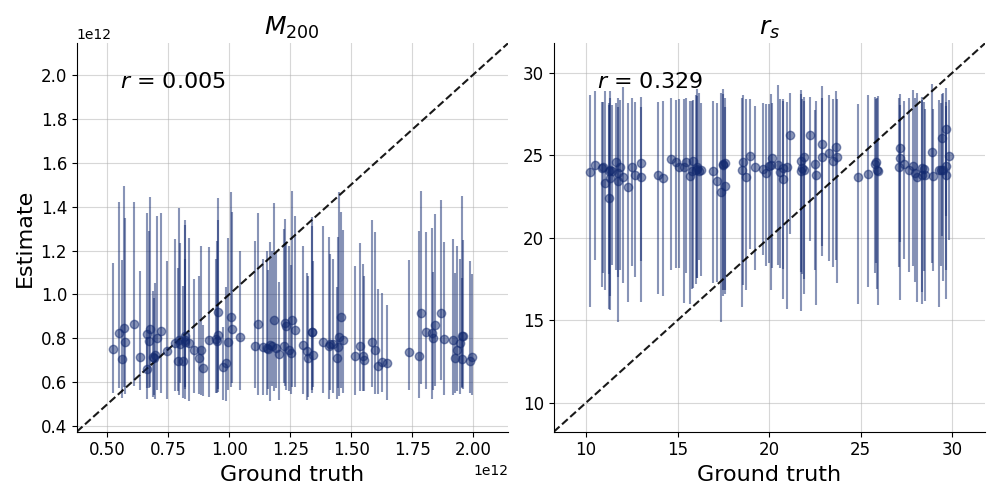
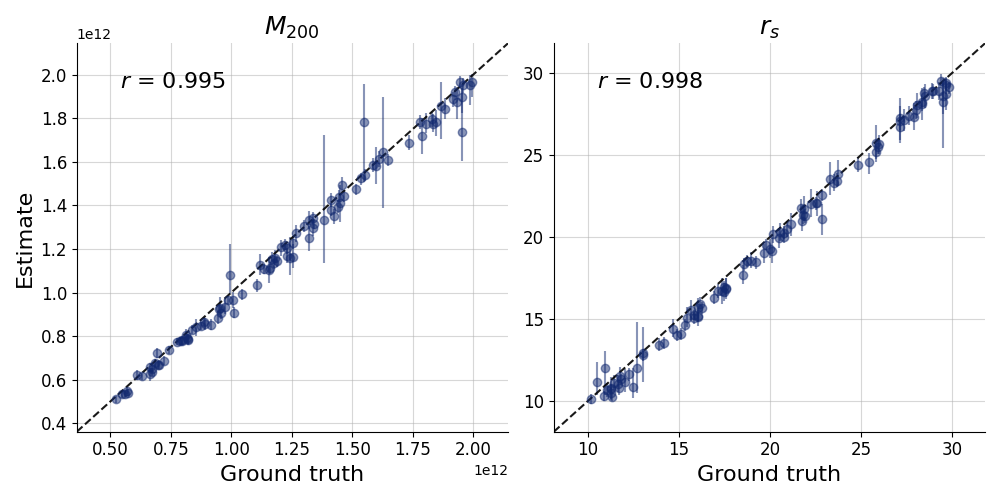
plotting calibration works, refactoring the standardization is now explicit

diff --git a/case_study5/partial_pooling.py b/case_study5/partial_pooling.py
@@ -54,20 +54,17 @@ adapter = (
     bf.adapters.Adapter()
     .to_array()
     .convert_dtype("float64", "float32")
-    # .standardize("sim_data",
-    #              mean=training_data['mean_sim_data'],
-    #              std=training_data['std_sim_data'])
+    .standardize("sim_data",
+                 mean=training_data['mean_sim_data'],
+                 std=training_data['std_sim_data']) #this is not a problem
     # .standardize("m_nfw",
     #              mean=training_data['mean_m_nfw'],
     #              std=training_data['std_m_nfw'])
     # .standardize("r_s",
     #              mean=training_data['mean_r_s'],
     #              std=training_data['std_r_s'])
-    .log("m_nfw")
-    .log("r_s")
     .concatenate(param_names_global, into="inference_variables")
     .rename("j", "inference_conditions")
-    # .as_set("sim_data")
     .rename("sim_data", "summary_variables")
 )
 
@@ -84,6 +81,8 @@ model_path = BASE / 'models' / 'partial_pooling_global.keras'
 if not os.path.exists(model_path):
     os.makedirs(name= BASE / 'models', exist_ok=True)
     training_data_raw = dict(np.load('./case_study5/training_set_odisseo.npz', allow_pickle=True))
+    training_data_raw['m_nfw'] = (training_data_raw['m_nfw']  - training_data_raw['mean_m_nfw'])/ training_data_raw['std_m_nfw']
+    training_data_raw['r_s'] = (training_data_raw['r_s']  - training_data_raw['mean_r_s'])/ training_data_raw['std_r_s']
     # Filter out mean/std arrays from training data
     training_data = {k: v for k, v in training_data_raw.items() if not k.startswith('mean_') and not k.startswith('std_')}  
     # Debug: print shapes of training data
@@ -102,29 +101,23 @@ if not os.path.exists(model_path):
     )
     workflow_global.approximator.save(model_path)
 else:
-    # Also print shapes when loading existing model
-    training_data = dict(np.load('./case_study5/training_set_odisseo.npz', allow_pickle=True))
-    print("Training data shapes:")
-    for k, v in training_data.items():
-        if hasattr(v, 'shape'):
-            print(f"  {k}: {v.shape}")
-        else:
-            print(f"  {k}: type = {type(v)}")
-    
     workflow_global.approximator = keras.models.load_model(model_path)
 
+training_data_raw = dict(np.load('./case_study5/training_set_odisseo.npz', allow_pickle=True))
 test_data_npz = dict(np.load('./case_study5/test_set_multistream_odisseo.npz', allow_pickle=True))
-print('Shape as loaded')
-print({k: test_data_npz[k].shape for k in test_data_npz.keys()})
+test_data_npz['m_nfw'] = (test_data_npz['m_nfw']  - training_data_raw['mean_m_nfw'])/ training_data_raw['std_m_nfw']
+test_data_npz['r_s'] = (test_data_npz['r_s']  - training_data_raw['mean_r_s'])/ training_data_raw['std_r_s']
+
 test_data = {k: np.expand_dims(np.array(test_data_npz[k]), axis=-1) for k in test_data_npz.keys() if k not in ['sim_data']}
 test_data['sim_data'] = test_data_npz['sim_data']
 print('Shape after expand_dims')
 print({k: test_data[k].shape for k in test_data.keys()})
+
+logging.info("Starting Partial-Pooling (global) inference...")
 global_posterior = workflow_global.compositional_sample(
     num_samples=N_SAMPLES,
     conditions={'sim_data': test_data['sim_data'], 
                 "j": test_data["j"] },
-                # "j": np.expand_dims(np.repeat(test_data["j"], repeats=N_SUBJECTS, axis=1), axis=2) },
     compute_prior_score=prior_global_score,
     compositional_bridge_d1=1/N_SUBJECTS,
     mini_batch_size=3,
@@ -133,7 +126,21 @@ global_posterior = workflow_global.compositional_sample(
     max_steps=MAX_STEP
 )
 
+test_data['m_nfw'] = (test_data_npz['m_nfw'] *training_data_raw['std_m_nfw'] + training_data_raw['mean_m_nfw']) 
+test_data['r_s'] = (test_data_npz['r_s'] *training_data_raw['std_r_s'] + training_data_raw['mean_r_s']) 
+
 ps = global_posterior.copy()
+ps['m_nfw'] = (ps['m_nfw'] *training_data_raw['std_m_nfw'] + training_data_raw['mean_m_nfw'])
+ps['r_s'] = (ps['r_s'] *training_data_raw['std_r_s'] + training_data_raw['mean_r_s'])
+
+del training_data_raw  # free up memory
+
+
+###############
+# PLOTS GLOBAL#
+###############
+
+#true vs predicted recovery plots
 fig = bf.diagnostics.recovery(
     estimates=ps,
     targets=test_data,
@@ -143,26 +150,43 @@ os.makedirs(name= BASE / 'plots', exist_ok=True)
 fig.savefig(BASE / "plots" / "partial_pooling_global_recovery.png")
 plt.show()
 
-# Debug: print the structure of global_posterior
-print("global_posterior keys:", global_posterior.keys())
-for k, v in global_posterior.items():
-    if hasattr(v, 'shape'):
-        print(f"  {k}: shape = {v.shape}")
-
-# The posterior likely has 'inference_variables' as key, not individual param names
-# We need to split it back into individual parameters for plotting
-if "inference_variables" in global_posterior:
-    inference_vars = global_posterior["inference_variables"]
-    # Shape is likely (batch, samples, 2) or (batch, 2)
-    ps = {
-        "m_nfw": inference_vars[..., 0],
-        "r_s": inference_vars[..., 1],
-    }
-else:
-    ps = global_posterior.copy()
-
-fig = bf.diagnostics.recovery(
+#corner plot for dataset_id = 0
+dataset_id = 0
+g = bf.diagnostics.plots.pairs_posterior(
     estimates=ps,
+    targets=test_data,
+    dataset_id=dataset_id,
+    variable_names=pretty_param_names_global,
+)
+fig = g
+fig.savefig(BASE / "plots" / f"partial_pooling_global_corner_datasetid_{dataset_id}.png")
+plt.show()
+
+# calibration plot
+fig = bf.diagnostics.calibration_ecdf(
+    estimates=ps,
+    targets=test_data,
+    difference=True,
+    variable_names=pretty_param_names_global
+)
+fig.savefig(BASE / "plots" / "partial_pooling_global_calibration.png")
+plt.show()
+
+# histograms 
+f = bf.diagnostics.plots.calibration_histogram(
+    estimates=ps, 
     targets=test_data,
     variable_names=pretty_param_names_global
 )
+f.savefig(BASE / "plots" / "partial_pooling_global_calibration_histogram.png")
+plt.show()
+
+
+# z_score contraction
+f = bf.diagnostics.plots.z_score_contraction(
+    estimates=ps, 
+    targets=test_data,
+    variable_names=pretty_param_names_global
+)
+f.savefig(BASE / "plots" / "partial_pooling_global_zscore_contraction.png")
+plt.show()

diff --git a/case_study5/stream_simulator_odisseo.py b/case_study5/stream_simulator_odisseo.py
@@ -324,7 +324,26 @@ def sample_pal5_priors():
         v_zc=v_zc
     )
 
-
+if __name__ == "__main__":
+    #test simulation
+    key = random.PRNGKey(0)
+    sim_data = simulate_stream(
+        prog_mass=5e3,
+        t_end=4000.0,
+        x_c=11.8,
+        y_c=0.79,
+        z_c=6.4,
+        v_xc=109.5,
+        v_yc=-254.5,
+        v_zc=-90.3,
+        m_nfw=1e12,
+        r_s=20.0,
+        gamma=1.0,
+        n_streams=1,
+        n_stars=1000,
+        key=key
+    )
+    print("sim_data shape:", sim_data['sim_data'].shape)  # (n_stars, 6)
 
 
 

diff --git a/case_study5/settings.py b/case_study5/settings.py
@@ -6,10 +6,10 @@ from tqdm import tqdm
 
 N_TRAINING_BATCHES = 256
 BATCH_SIZE = 128
-EPOCHS = 50
+EPOCHS = 100
 N_TRIALS = 30
 N_SUBJECTS = 2
-N_SAMPLES = 100
+N_SAMPLES = 1000
 N_TEST = 50
 METHOD = 'two_step_adaptive'
 STEPS = "adaptive"
